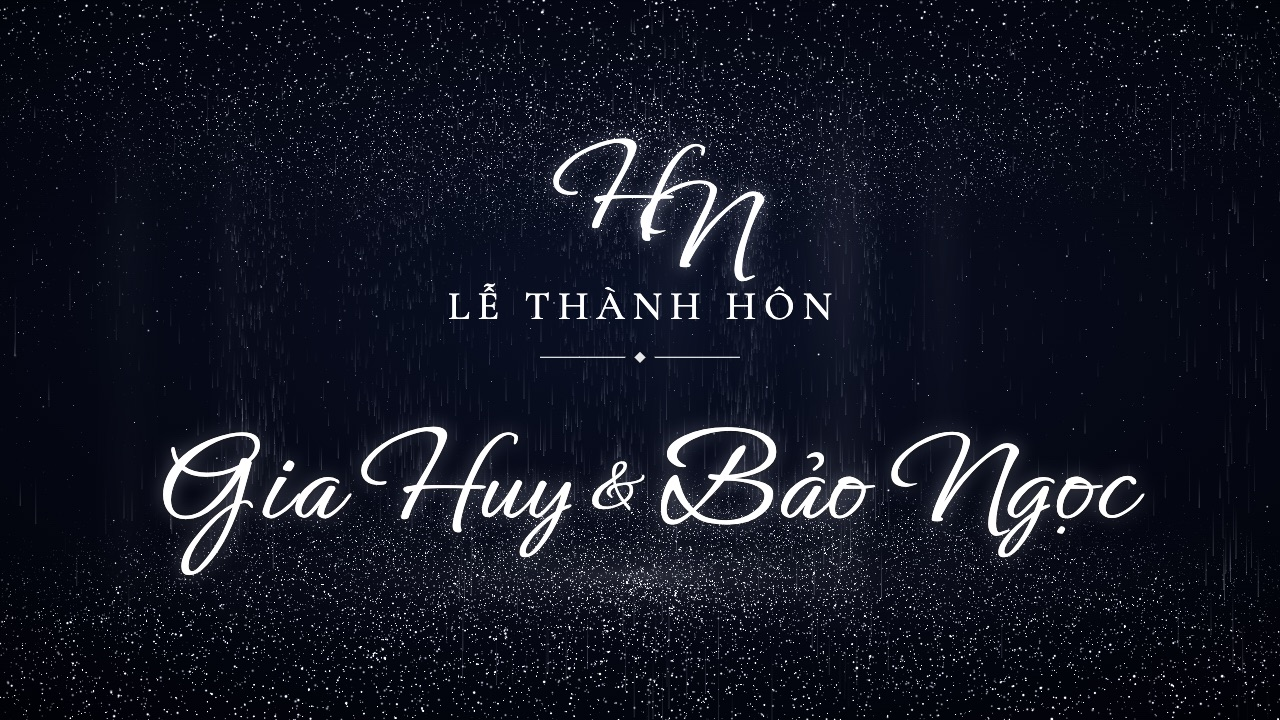
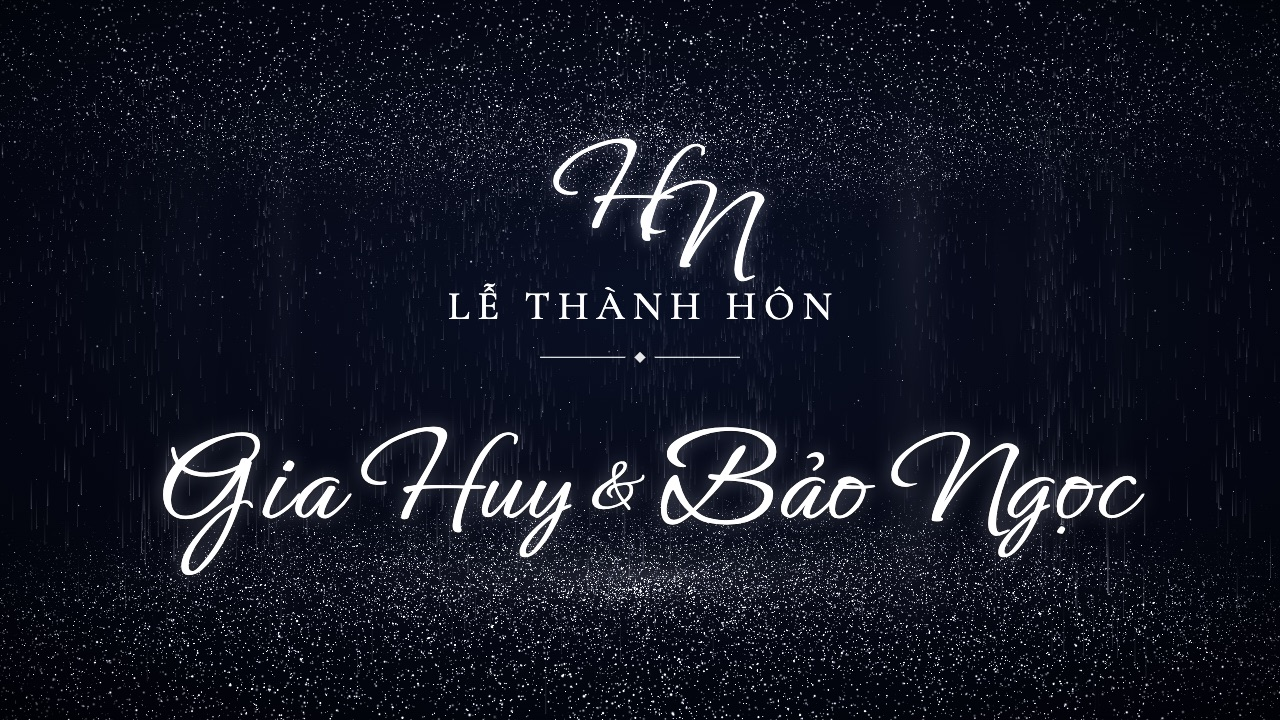
Màn LED "Đêm kim tuyến bạc": trần và sàn kim tuyến bớt cong — ép dẹt độ sâu của hai đĩa (và thác, giọt rơi đi kèm) còn 60%, tâm gợn sóng vẫn đúng chỗ hạt chạm

diff --git a/public/led/led.js b/public/led/led.js
@@ -623,7 +623,7 @@
   // Mọi hạt chuyển động trong shader (card đồ hoạ tính) nên hàng chục nghìn hạt vẫn 60 khung hình/giây. Máy không có WebGL → bản canvas 2D.
   var GLFX = {
     gl: null, cv: null, time: 0, rip: [], heroes: [], sparks: [], nextDrop: 0,
-    VS_PTS: 'attribute vec4 aP;uniform float uT,uAsp,uPx;uniform vec3 uRip[8];uniform vec4 uRp;uniform vec3 uCen;uniform vec2 uSt;uniform vec3 uXf;uniform float uCeil;varying float vA;' +
+    VS_PTS: 'attribute vec4 aP;uniform float uT,uAsp,uPx;uniform vec3 uRip[8];uniform vec4 uRp;uniform vec3 uCen;uniform vec2 uSt;uniform vec3 uXf;uniform float uCeil,uFlat;varying float vA;' +
       'void main(){float seed=aP.z;float tw=pow(0.5+0.5*sin(uT*(1.2+seed*3.7)+seed*61.0),3.0);' +
       'if(aP.w>4.5){gl_Position=vec4(aP.xy,0.0,1.0);float e=aP.y-0.3;float big=step(0.97,fract(seed*29.0));' +
       'gl_PointSize=uPx*(1.6+3.0*fract(seed*7.3)*fract(seed*3.9)+big*2.5);float br=0.72+0.28*(0.5+0.5*sin(uT*0.35+aP.x*2.2+sin(uT*0.21+aP.x*1.3)*1.5));vA=(0.35+0.85*tw)*(0.42+0.55*exp(-max(e,0.0)*2.2)+big*0.35)*smoothstep(-0.24,0.08,e)*smoothstep(0.75,0.3,e)*br;return;}' +
@@ -634,16 +634,16 @@
       'float thick=(fract(seed*91.7)-0.5)*(0.05+0.09*aP.x);vec3 p=vec3(cos(ang)*aP.x,(fl>0.5?-0.95:0.95)+thick,sin(ang)*aP.x*(uCeil>1.01&&fl>0.5?0.5:1.0));float lift=0.0;' +
       'if(fl>0.5){for(int i=0;i<8;i++){float age=uT-uRip[i].z;if(age>0.0&&age<6.0){float d=distance(p.xz,uRip[i].xy);' +
       'float w=exp(-pow((d-age*uRp.x)/uRp.y,2.0))*exp(-age*uRp.z);float w2=exp(-pow((d-age*uRp.x+uRp.y*2.7)/(uRp.y*0.8),2.0))*exp(-age*uRp.z*1.6)*0.55;lift+=(w+w2)*uRp.w;}}}' +
-      'p.y+=lift*0.065;float zc=3.2-p.z;float f=2.1445;gl_Position=vec4(p.x*f/uAsp*zc/zc,p.y*f,0.0,zc);gl_Position.x=p.x*f/uAsp;' +
+      'p.y+=lift*0.065;p.z*=uFlat;float zc=3.2-p.z;float f=2.1445;gl_Position=vec4(p.x*f/uAsp*zc/zc,p.y*f,0.0,zc);gl_Position.x=p.x*f/uAsp;' +
       'float sz=uPx*(2.4+5.0*fract(seed*13.7)*fract(seed*5.1))*2.6/zc*(fl>0.5?1.0:mix(1.0,1.35,step(1.01,uCeil)));gl_PointSize=max(1.0,sz*uSt.x)*(1.0+lift*1.0);' +
       'float far=clamp(1.3-zc*0.09,0.5,1.0);vA=((0.5+1.1*tw)*(1.15+0.35*exp(-aP.x*0.8)+fl*(uCen.x+uCen.y)*exp(-aP.x*uCen.z))*(fl>0.5?1.0:0.8*uCeil)+lift*1.7)*far*smoothstep(0.15,0.7,zc)*(1.0-smoothstep(1.7,3.0,aP.x)*0.92)*uSt.y;}',
-    VS_DROP: 'attribute vec4 aD;attribute float aTail;uniform float uT,uAsp,uPx;varying float vA;' +
+    VS_DROP: 'attribute vec4 aD;attribute float aTail;uniform float uT,uAsp,uPx,uFlat;varying float vA;' +
       'void main(){float f=fract(uT*aD.w+aD.z);float ft=max(f-0.01-0.028*f,0.0);float ff=aTail>0.5?ft:f;' +
-      'float y0=0.95+(fract(aD.z*53.0)-0.5)*0.5;vec3 p=vec3(aD.x,y0-ff*ff*(y0+0.95),aD.y);float zc=3.2-p.z;float k=2.1445;gl_Position=vec4(p.x*k/uAsp,p.y*k,0.0,zc);' +
+      'float y0=0.95+(fract(aD.z*53.0)-0.5)*0.5;vec3 p=vec3(aD.x,y0-ff*ff*(y0+0.95),aD.y*uFlat);float zc=3.2-p.z;float k=2.1445;gl_Position=vec4(p.x*k/uAsp,p.y*k,0.0,zc);' +
       'gl_PointSize=max(1.0,uPx*2.6*2.3/zc);float mid=0.4+0.6*abs(f*f-0.5)*2.0;' +
       'vA=(aTail>0.5?0.0:1.0)*smoothstep(0.0,0.3,f)*(1.0-smoothstep(0.9,1.0,f))*mid*(0.1+0.3*fract(aD.z*17.0))*clamp(1.3-zc*0.12,0.3,1.0);}',
-    VS_DYN: 'attribute vec3 aPos;attribute vec2 aSA;uniform float uAsp,uPx;varying float vA;' +
-      'void main(){float zc=3.2-aPos.z;float k=2.1445;gl_Position=vec4(aPos.x*k/uAsp,aPos.y*k,0.0,zc);gl_PointSize=max(1.0,aSA.x*uPx*2.3/zc);vA=aSA.y;}',
+    VS_DYN: 'attribute vec3 aPos;attribute vec2 aSA;uniform float uAsp,uPx,uFlat;varying float vA;' +
+      'void main(){float zc=3.2-aPos.z*uFlat;float k=2.1445;gl_Position=vec4(aPos.x*k/uAsp,aPos.y*k,0.0,zc);gl_PointSize=max(1.0,aSA.x*uPx*2.3/zc);vA=aSA.y;}',
     FS: 'precision mediump float;varying float vA;uniform vec3 uCol;uniform float uPoint;' +
       'void main(){float a=1.0;if(uPoint>0.5){float d=length(gl_PointCoord-0.5);a=smoothstep(0.5,0.0,d);a*=a;}float v=a*vA;gl_FragColor=vec4(uCol*v,v);}',
     VS_Q: 'attribute vec2 aQ;void main(){gl_Position=vec4(aQ,0.0,1.0);}',
@@ -826,6 +826,7 @@
         gl.useProgram(p);
         gl.uniform1f(gl.getUniformLocation(p, 'uT'), t); gl.uniform1f(gl.getUniformLocation(p, 'uAsp'), asp); gl.uniform1f(gl.getUniformLocation(p, 'uPx'), px);
         gl.uniform3fv(gl.getUniformLocation(p, 'uCol'), rgb); gl.uniform1f(gl.getUniformLocation(p, 'uPoint'), point);
+        gl.uniform1f(gl.getUniformLocation(p, 'uFlat'), self.mode === 'dembac' ? 0.6 : 1); // Đêm kim tuyến bạc: ép dẹt trần + sàn cho bớt cong
       };
       var attr = function (p, name, size, stride, off) { var l = gl.getAttribLocation(p, name); if (l < 0) return; gl.enableVertexAttribArray(l); gl.vertexAttribPointer(l, size, gl.FLOAT, false, stride, off); };
       // Dải ngân hà: cả bầu trời xoay và thu phóng cực chậm (như đang trôi); lớp mây vẽ trước, sao vẽ sau
